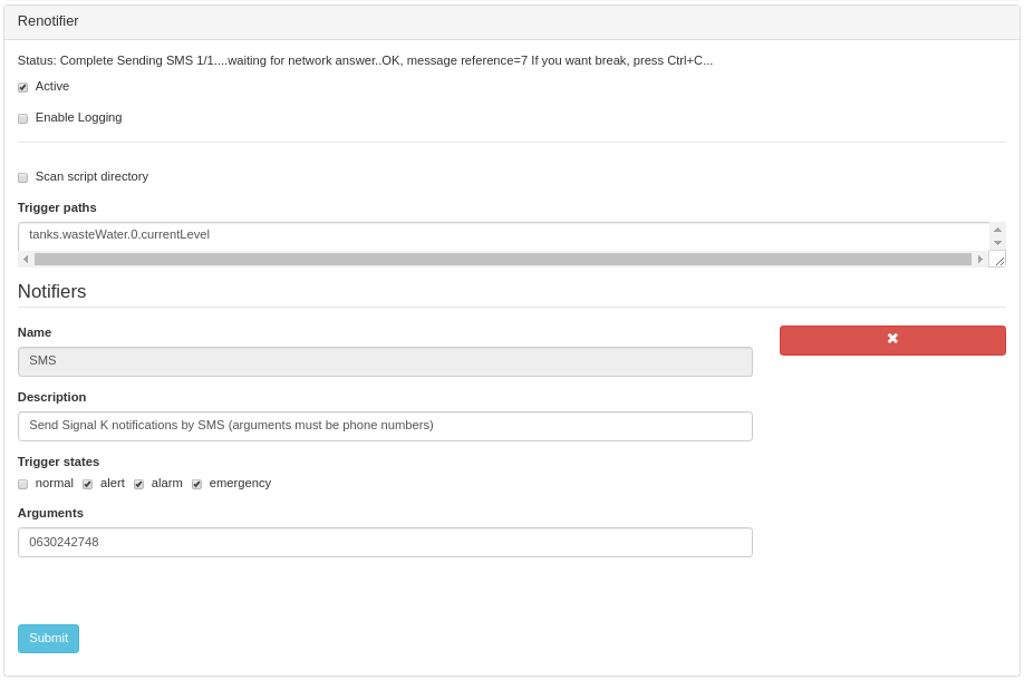
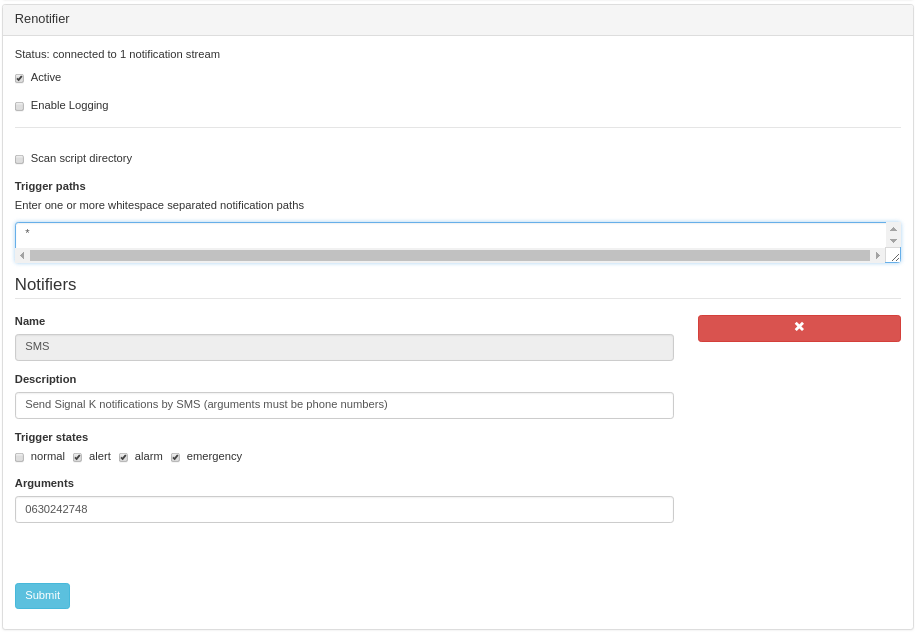
Tidy up

diff --git a/index.js b/index.js
@@ -30,23 +30,25 @@ module.exports = function(app) {
 	plugin.description = "Take external action on a Signal K notification";
 
 	plugin.schema = function() {
+		
 		return({	
 			type: "object",
 			properties: {
 				scan: {
 					title: "Scan script directory",
 					type: "boolean",
-					default: true
+					default: false
 				},
 				paths: {
 					title: "Trigger paths",
+					description: "Enter one or more whitespace separated notification paths",
 					type: "string",
 					default: ""
 				},
 				notifiers: {
 					title: "Notifiers",
 					type: "array",
-					default: [],
+					default: loadNotifiers([]),
 					items: {
 						type: "object",
 						properties: {
@@ -115,7 +117,7 @@ module.exports = function(app) {
 		//
 		if (options.scan) {
 			try {
-				var updatednotifiers = loadNotifierOptionsFromDisk(options.notifiers);
+				var updatednotifiers = loadNotifiers(options.notifiers);
 				options.notifiers = updatednotifiers;
 				options.scan = false;
 				try {
@@ -173,7 +175,7 @@ module.exports = function(app) {
 		return((args !== undefined)?args.split(/[ ,]+/):[]);
 	}
 
-	function loadNotifierOptionsFromDisk(notifieroptions) {
+	function loadNotifiers(notifieroptions) {
 		var retval = notifieroptions;
 
 		try {

diff --git a/README.md b/README.md
@@ -8,8 +8,8 @@ The plugin was developed to provide a remote notification service and although
 this functional role determines the syntax of external script invocation it
 does not place arbitrary constraints on what a script can do.
 
-Where appropriate this documentation takes as a case study the author's use of
-__signalk-renotifier__ to implement a simple SMS-based notification service.
+This documentation takes as a case study the use of __signalk-renotifier__ to
+implement a simple SMS-based notification service.
 
 ### Principle of operation
 
@@ -18,9 +18,9 @@ __signalk-renotifier__ processes
 responding to just those notifications identified in the plugin configuration
 and hereafter called _trigger paths_.
 When a notification is received on a trigger path, the plugin presents a
-notification opportunity to one or more configured _notifiers_ each of which
+_notification opportunity_ to one or more configured _notifiers_ each of which
 determines, based upon its configuration, whether or not to execute its
-associated, external, _notification script_.
+associated _notification script_.
  
 ## System requirements
 
@@ -28,10 +28,8 @@ __signalk-renotifier__ has no special system requirements that must be met
 prior to installation.
 
 Of course, for the plugin to actually _do_ anything it requires one or more
-notification scripts and these scripts may well place quite demanding
-requirements on the host server's software, hardware and operating environment.
-The plugin ships with some example notifier scripts for sending Email and
-SMS text messages.
+notification scripts, each of which may well place quite demanding requirements
+on the host server's software, hardware and operating environment.
 
 _Sending an SMS from a computer requires that the system has access to a
 cellular modem (or a mobile phone that supports remote control) and a software
@@ -49,10 +47,15 @@ which is part of most modern Linux distributions._
 
 Download and install __signalk-renotifier__ using the _Appstore_ link
 in your Signal K server console.
-The plugin can also be downloaded from the 
+The plugin can also be obtained from the 
 [project homepage](https://github.com/preeve9534/signalk-renotifier)
 and installed using
 [these instructions](https://github.com/SignalK/signalk-server-node/blob/master/SERVERPLUGINS.md).
+
+The plugin ships with some example notifier scripts for sending Email and
+SMS text messages.
+These are located in the `examples/` folder of the plugin install directory
+and if required must be copied or linked into the `bin/` folder.
 
 _For cellular modem support, install _gammu_ on your Signal K Node server
 host using your system's package manager, or download and install a suitable
@@ -64,6 +67,14 @@ version from the
 ![Plugin configuration screen](readme/screenshot.png)
  
 ### Activating the plugin
+
+In the server main menu navigate to _Server->Plugin config_ and select
+_Renotifier_ to access the plugin configuration screen.
+Check the _Active_ option, then review and amend the configuration options
+discussed below before clicking the _Submit_ button to start the plugin.
+
+__signalk-renotifier__ will have automatically populated its list of
+notifiers by scanning scripts in the plugin's `bin/` folder.
 
 ### Customising plugin operation
 
@@ -78,14 +89,17 @@ Check this option to re-initialise the list of notifiers (any configuration of
 existing entries in _Notifiers_ will be retained).
 
 __Trigger paths__.
-List of the Signal K notification paths which should be monitored by the plugin.
-Default is the empty string.
+List of the __Signal K Node__ pathnames which should be monitored by the plugin.
+Default is '*' (monitor all paths).
 Enter here a list of whitespace separated (newline works best) Signal K paths,
 without the 'notifications.' prefix.
+Pathnames can include a terminal asterisk which will cause all paths in the
+indicated part of the tree to be monitored. 
 For example, if notifications are being raised in the system when the level of
 waste in the black water tank exceeds some threshold, then entering a string
 of the form "tanks.wasteWater.0.currentLevel" will cause the plugin to look
-out for notifications on this data point.
+out for notifications on this data point only whilst "tanks.*" would select
+notifications related to all tanks.
  
 __Notifiers__.
 List of notifier (scripts) and their options.
@@ -129,18 +143,19 @@ to which notification texts should be sent.
 Notifier scripts are shell scripts or executables located in the `bin/`
 folder under the plugin installation directory.
 Scripts must be executable by the owner of the running Signal K Node server and
-should provide the following interface.
+must implement the following interface.
 
 _script_ [_arg_ ...]
 
 Where _script_ is the name of the script file and _arg_ is an argument of a type
 dependent upon script function (see above).
 
-During plugin initialisation __signalk_renotifier__ executes each script with
-no arguments in order to obtain some descriptive text that can be used in the plugin
-configuration page: it is helpful if this text offers some advice on what types of
-_arg_ values are acceptable to _script_.
-In this case the exit value of _script_ must always be 0.
+During plugin initialisation __signalk-renotifier__ will execute _script_ with
+no arguments in order to obtain some descriptive text that can be used in the
+plugin configuration page.
+It is helpful if this text offers some advice on what types of _arg_ values
+_script_ can handle.
+An exit value of 0 must be returned from this call.
 
 The `SMS` script, for example, behaves in the following way:
 ```
@@ -149,14 +164,14 @@ Send notifications as SMS text messages (arguments must be telephone numbers)
 $>
 ```
 Normally, execution of _script_ will happen when a notification event occurs
-that matches _script_'s configuration criteria and __signalk_notifier__ will pass
-the text of the notification message via _script_'s standard input and all
+that matches _script_'s configuration criteria and __signalk-renotifier__ will
+pass the text of the notification message via _script_'s standard input and all
 configured arguments as a space separated _arg_ values.
 
-The `SMS` script, for example, requires its arguments to be telephone numbers and
-so the command:
+The `SMS` script, for example, requires its arguments to be telephone numbers
+and so the command:
 ``
-echo "Hello!" | SMS +447786119911
+echo "Hello!" | SMS 00447786119911
 ``
 will attempt to send a simple text message to the supplied phone number.
 
@@ -166,7 +181,7 @@ following way.
 1. If _script_ cannot attempt to perform its function for whatever reason
 then it must emit a short explanatory reason for the problem on stderr and
 terminate with exit value 1.
-A typical reasons might be "required hardware not available", "program 'foo'
+Typical reasons might be "required hardware not available", "program 'foo'
 is required but cannot be found" or "no message on standard input".
 
 2. _script_ should then iterate over its _args_, attempting to perform whatever
@@ -182,12 +197,13 @@ for (i = 0; i < args.length; i++) {
 return (exitcode + 256)
 ```
 
-3. In the case of failures which occur whilst iterating over _args_, _script_ should
-issue a message on stderr which attempts to report the reason(s) for failure. 
+3. In the case of failures which occur whilst iterating over _args_, _script_
+should issue a message on stderr which attempts to report the reason(s) for
+failure. 
 
 4. As far as possible _script_ should limit unnecessary resource consumption.
-The `SMS` script, for example, abandons attempts to send a text message as soon as
-_gammu_ reports the cellular network is unavailable.
+The `SMS` script, for example, abandons attempts to process all its arguments
+as soon as it detects that a cellular network is unavailable.
 
 The `SMS` script installed with the plugin is listed below.
 
